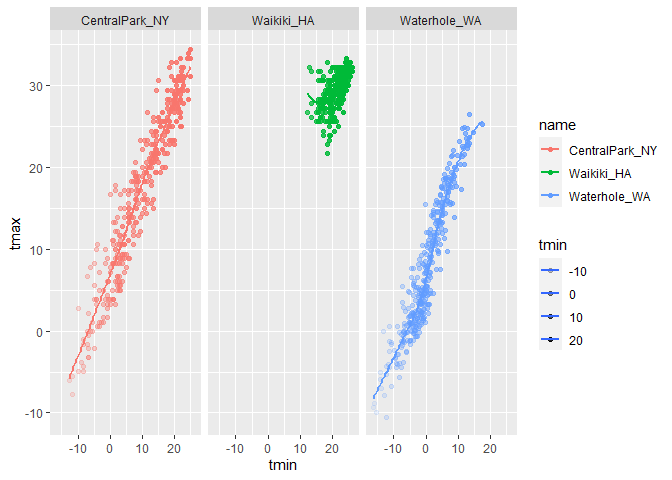
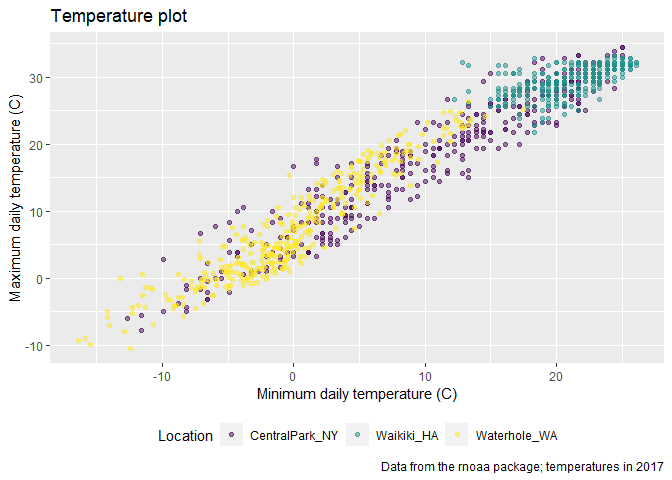
themes!

diff --git a/viz_ii.md b/viz_ii.md
@@ -168,3 +168,53 @@ weather_df %>%
     ## Warning: Removed 15 rows containing missing values (geom_point).
 
 ![](viz_ii_files/figure-gfm/unnamed-chunk-6-1.png)<!-- -->
+
+## Themes
+
+``` r
+weather_df %>% 
+  ggplot(aes(x = tmin, y = tmax, color = name)) +
+  geom_point(alpha = 0.5) +
+  labs(
+    title = "Temperature plot",
+    x = "Minimum daily temperature (C)",
+    y = "Maximum daily temperature (C)",
+    caption = "Data from the rnoaa package; temperatures in 2017"
+  ) +
+ viridis::scale_color_viridis(
+   name = "Location",
+   discrete = TRUE) +
+  theme(legend.position = "bottom")
+```
+
+    ## Warning: Removed 15 rows containing missing values (geom_point).
+
+![](viz_ii_files/figure-gfm/unnamed-chunk-7-1.png)<!-- -->
+
+Change the overall grey theme theme\_bw - changes background the white
+and outline to black theme\_minimal - takes away outline theme\_classic
+- no gridline can use “ggthemes::” to explore the other themes
+
+To apply 2 themes, you cannot stack the theme function twice update
+overall theme first and then tweek things like legend position
+
+``` r
+weather_df %>% 
+  ggplot(aes(x = tmin, y = tmax, color = name)) +
+  geom_point(alpha = 0.5) +
+  labs(
+    title = "Temperature plot",
+    x = "Minimum daily temperature (C)",
+    y = "Maximum daily temperature (C)",
+    caption = "Data from the rnoaa package; temperatures in 2017"
+  ) +
+ viridis::scale_color_viridis(
+   name = "Location",
+   discrete = TRUE) +
+  theme_minimal() +
+  theme(legend.position = "bottom")
+```
+
+    ## Warning: Removed 15 rows containing missing values (geom_point).
+
+![](viz_ii_files/figure-gfm/unnamed-chunk-8-1.png)<!-- -->
